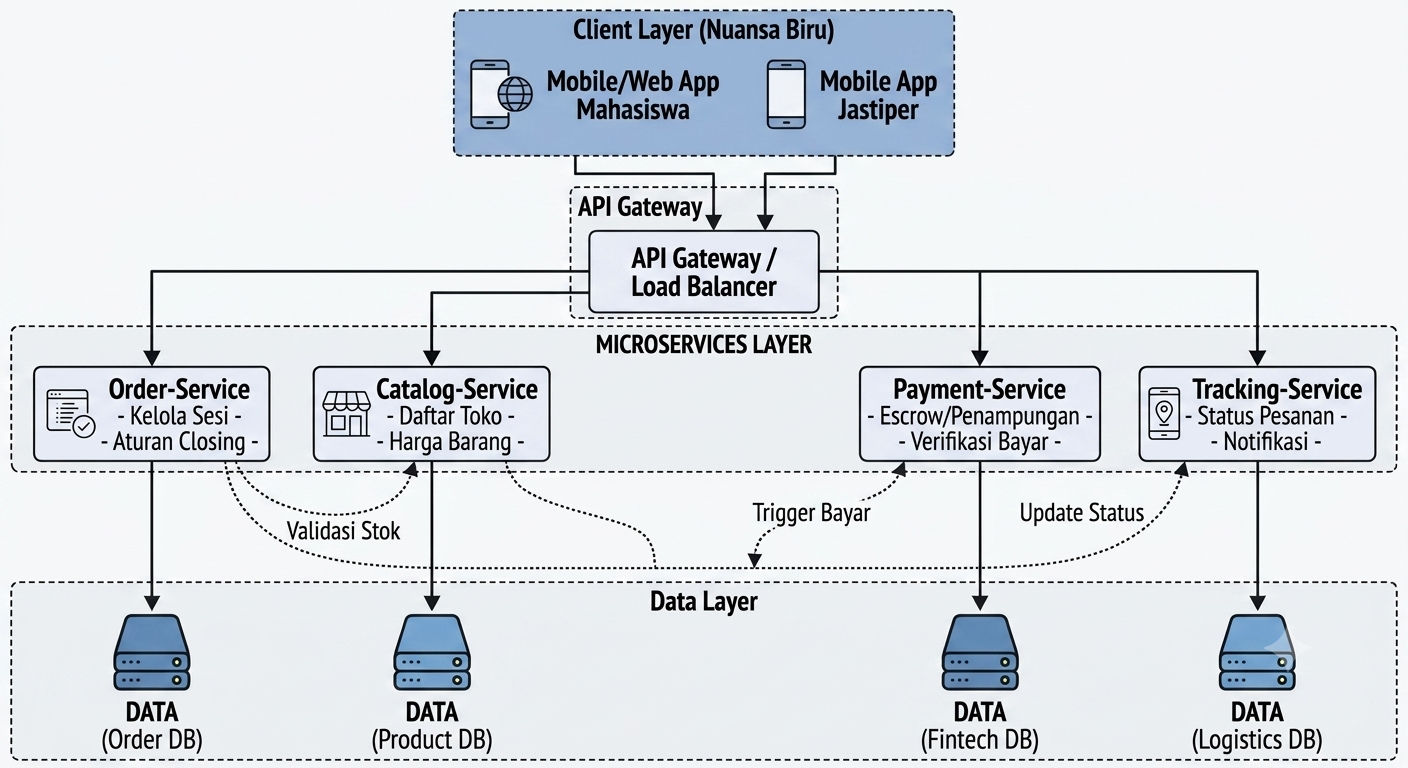
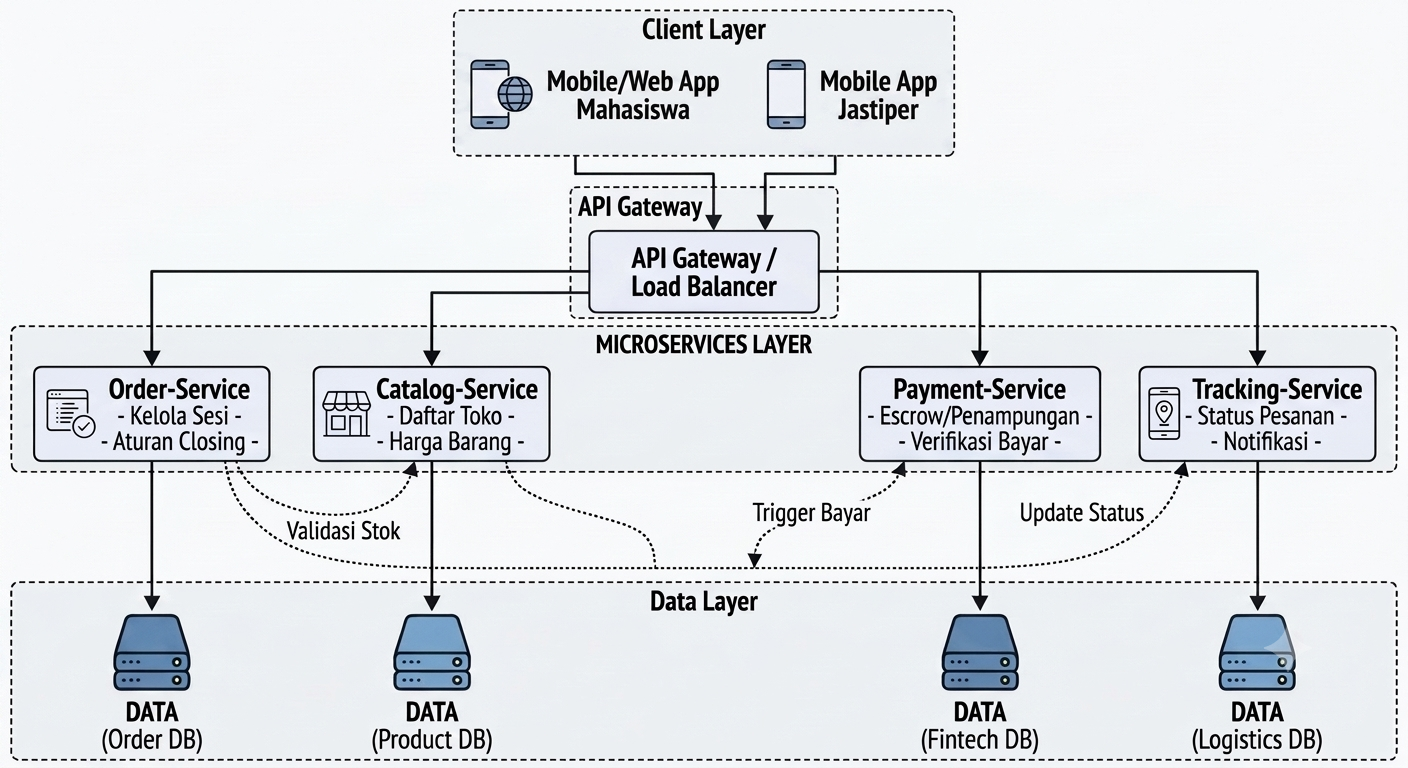
docs: tambah arsitektur.md, gambar arsitektur, dan AI LOG

Changed region(s): [[0.3125, 0.0, 0.6875, 0.2188]]

diff --git a/AI-LOG.md b/AI-LOG.md
@@ -19,3 +19,67 @@ Dokumen ini mencatat interaksi dengan AI / GitHub Copilot selama pengerjaan proy
 - **Diterima**: Format skema YAML dengan versi `openapi: 3.0.3`, info metadata, dan daftar path `/items` serta `/health`.
 - **Ditolak & alasan**: AI memberikan contoh skema dengan `tab` untuk indentasi dan mencantumkan port default `8080`. Saya **UBAH** indentasi menjadi 2 spasi konsisten dan mengubah URL server ke `http://localhost:3001` agar sesuai dengan *port* `catalog-service`.
 - **Verifikasi**: Divalidasi di `editor.swagger.io` tanpa ada pesan error merah ? Berhasil & Sesuai.
+---
+
+### Arsitek Sistem — Pertemuan 2
+
+#### Entri 1
+- **Konteks**: Merancang komunikasi antara `order-service` dan `catalog-service` untuk mengambil harga barang sebelum membuat pesanan.
+- **Prompt**: "Buat `order-service` Express yang memanggil `catalog-service` lewat HTTP untuk mengambil data barang."
+- **Diterima**: Copilot men-generate blok `fetch` ke `CATALOG_URL/items/:id` dengan `try/catch` dan pengecekan `r.status === 404`.
+- **Ditolak & alasan**: Copilot mengusulkan menambah dependensi `axios`. Saya tolak karena Node.js 18+ sudah menyertakan `fetch` bawaan — menambah paket eksternal untuk fungsionalitas yang sudah tersedia adalah overhead yang tidak perlu dan memperbesar attack surface dependensi.
+- **Verifikasi**: `curl -X POST http://localhost:3002/orders -d '{"itemId":99,"qty":1}'` membalas `404 item tidak ada` — order-service berhasil meneruskan status dari catalog-service.
+
+#### Entri 2
+- **Konteks**: Memilih strategi penyimpanan data untuk `catalog-service` agar data persisten tanpa menambah infrastruktur baru.
+- **Prompt**: "Tambahkan database ke catalog-service agar data items tersimpan di disk, bukan di memori."
+- **Diterima**: Copilot menyarankan `node:sqlite` (built-in Node.js 22+) dengan `DatabaseSync`, alih-alih dependensi pihak ketiga seperti `better-sqlite3`.
+- **Ditolak & alasan**: Copilot menyisipkan `db.close()` di dalam setiap handler request. Saya hapus karena `DatabaseSync` dirancang dibuka **sekali** saat startup dan dipakai sepanjang siklus hidup proses — menutup dan membuka kembali per-request menambah latensi dan rawan race condition pada koneksi itu sendiri.
+- **Verifikasi**: Restart `catalog-service` → data tidak hilang; tabel dan isian awal tetap ada di `catalog.db`.
+
+---
+
+### Data & Persistence Engineer — Pertemuan 2
+
+#### Entri 1
+- **Konteks**: Mendefinisikan skema tabel `items` dan mengisi data awal hanya sekali saat database masih kosong.
+- **Prompt**: "Buat tabel SQLite `items` dengan kolom id, nama, harga, sisa, lalu isi data awal hanya jika tabel masih kosong."
+- **Diterima**: Copilot men-generate `CREATE TABLE IF NOT EXISTS` dan guard `SELECT COUNT(*) AS n ... if (jumlah === 0)` sebelum INSERT.
+- **Ditolak & alasan**: Copilot mengusulkan seeding dengan `INSERT OR IGNORE` tanpa kolom `sisa`. Saya tolak karena `sisa` adalah sumber kebenaran tunggal untuk kuota jastip — menghilangkannya berarti endpoint `/ambil` tidak punya data untuk dikurangi. Selain itu, `INSERT OR IGNORE` menyembunyikan kegagalan secara diam-diam, berbeda dengan guard `COUNT(*)` yang transparan dan mudah di-debug.
+- **Verifikasi**: `SELECT * FROM items` pada `catalog.db` setelah restart memperlihatkan dua baris lengkap dengan kolom `sisa` berisi 50 dan 100.
+
+#### Entri 2
+- **Konteks**: Membuat endpoint mengurangi stok yang aman saat ramai (`POST /items/:id/ambil`).
+- **Prompt**: "Buat endpoint Express yang mengurangi kolom `sisa` pada tabel `items` di `node:sqlite`, aman dari race condition."
+- **Diterima**: Copilot menyarankan `SELECT sisa FROM items WHERE id = ?` dulu, cek di JavaScript `if (item.sisa > 0)`, baru `UPDATE items SET sisa = sisa - 1 WHERE id = ?`.
+- **Ditolak & alasan**: Pola baca-lalu-tulis itu BISA kesalip — dua request masuk hampir bersamaan sama-sama membaca `sisa = 1`, keduanya lolos kondisi JS, lalu keduanya menjalankan UPDATE. Hasilnya `sisa` menjadi `−1`. Saya ganti menjadi satu perintah `UPDATE items SET sisa = sisa - 1 WHERE id = ? AND sisa > 0` dan mengandalkan `hasil.changes === 0` untuk deteksi stok habis — SQLite sendiri yang menjamin atomisitas, bukan kode JavaScript.
+- **Verifikasi**: Uji 3 request paralel pada item dengan `sisa = 2` → `201`, `201`, `409`. Benar menolak request ketiga tanpa membuat stok minus.
+
+---
+
+### Backend Developer — Pertemuan 2
+
+#### Entri 1
+- **Konteks**: Menambahkan validasi input di `POST /orders` agar request dengan tipe data salah ditolak lebih awal.
+- **Prompt**: "Tambahkan validasi input di POST /orders agar itemId dan qty harus berupa bilangan bulat positif."
+- **Diterima**: Copilot men-generate guard `if (!Number.isInteger(itemId) || !Number.isInteger(qty) || qty < 1)`.
+- **Ditolak & alasan**: Copilot awalnya menggunakan `typeof itemId !== 'number'` yang masih meloloskan nilai float seperti `1.5`. `Number.isInteger` lebih ketat — float dan NaN ditolak, sesuai dengan kebutuhan ID dan kuantitas yang harus berupa bilangan bulat.
+- **Verifikasi**: `curl -d '{"itemId":1,"qty":0.5}'` → `400 itemId dan qty wajib angka, qty minimal 1`. Float berhasil ditolak.
+
+#### Entri 2
+- **Konteks**: Menerbitkan event `order.created` ke Redis setelah pesanan berhasil dibuat.
+- **Prompt**: "Setelah order berhasil dibuat, terbitkan event ke Redis channel `order.created`."
+- **Diterima**: Copilot men-generate `pub.publish("order.created", JSON.stringify(order))` dengan Redis `createClient`.
+- **Ditolak & alasan**: Copilot menempatkan `pub.connect()` **di dalam** handler request, sehingga koneksi baru dibuka setiap kali ada order. Saya pindahkan inisialisasi ke level modul (satu kali saat startup) agar tidak terjadi connection leak dan tidak menambah latensi per-request.
+- **Verifikasi**: Log `notification-service` mencetak baris notifikasi untuk setiap `POST /orders` yang berhasil, tanpa ada pesan error koneksi baru berulang.
+
+---
+
+### Integration Engineer — Pertemuan 2
+
+#### Entri 1
+- **Konteks**: Membuat `notification-service` yang mendengarkan event `order.created` dari Redis dan mencetak notifikasi.
+- **Prompt**: "Buat subscriber Redis yang mendengarkan channel `order.created` dan mencetak isi pesan ke konsol."
+- **Diterima**: Copilot men-generate `sub.subscribe("order.created", (msg) => { const order = JSON.parse(msg); ... })` dalam IIFE async.
+- **Ditolak & alasan**: Copilot memanggil `JSON.parse(msg)` langsung tanpa proteksi. Jika ada publisher nakal yang mengirim string bukan-JSON, seluruh proses subscriber crash dan semua notifikasi selanjutnya tidak terproses. Saya wrap dengan `try/catch` di dalam callback dan log pesan yang gagal di-parse tanpa menghentikan proses.
+- **Verifikasi**: Kirim pesan `"bukan-json"` langsung ke channel Redis → subscriber mencetak peringatan parse error dan tetap berjalan menerima event berikutnya.

diff --git a/docs/ARSITEKTUR.md b/docs/ARSITEKTUR.md
@@ -12,9 +12,6 @@ Diagram sederhana komunikasi antar layanan:
        |
        +--------> [tracking-service]
        (Memperbarui status barang yang dititip)
-
-![Arsitektur Sistem Jastip Kampus](arsitektur.png)
-
 ## Ringkasan Proyek
 Sistem ini dirancang untuk proses pemesanan Jasa Titip (Jastip) makanan dan barang di lingkungan area kampus dengan kapasitas jastiper (runner) dan stok kantin/toko yang terbatas.
 
